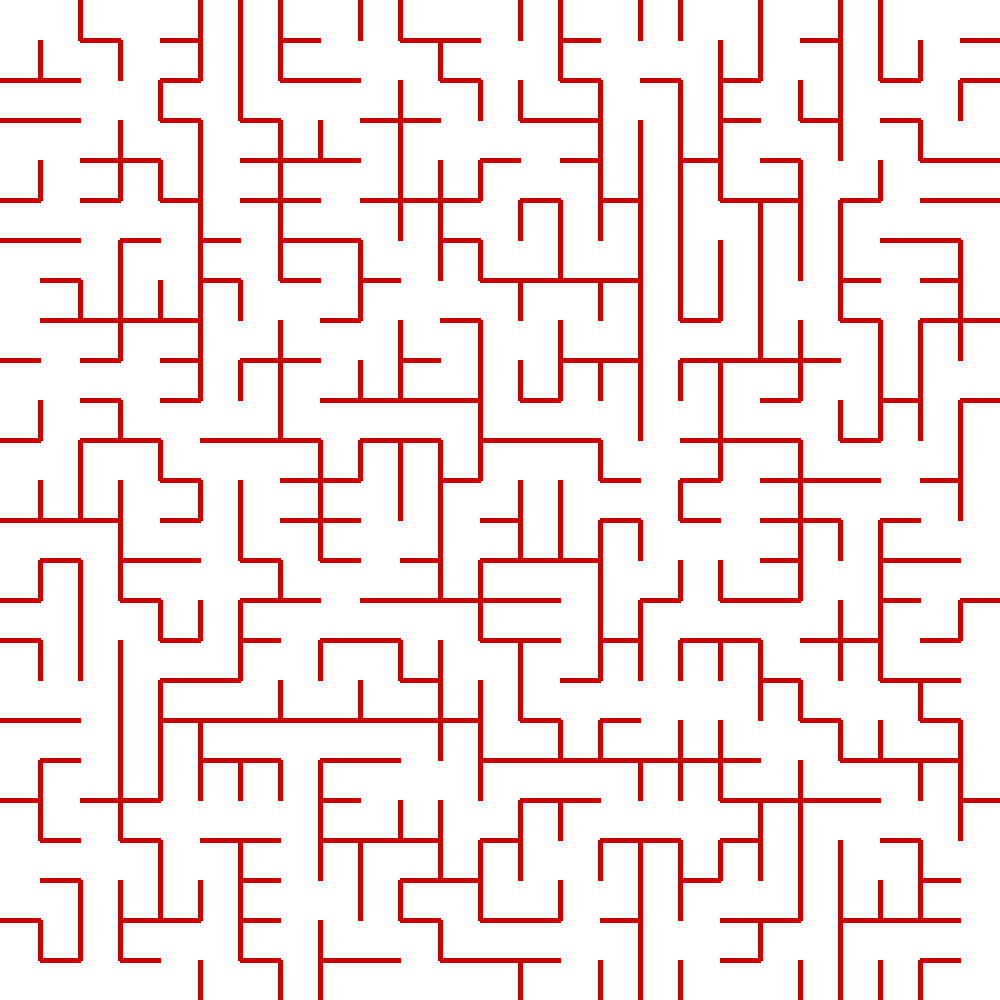
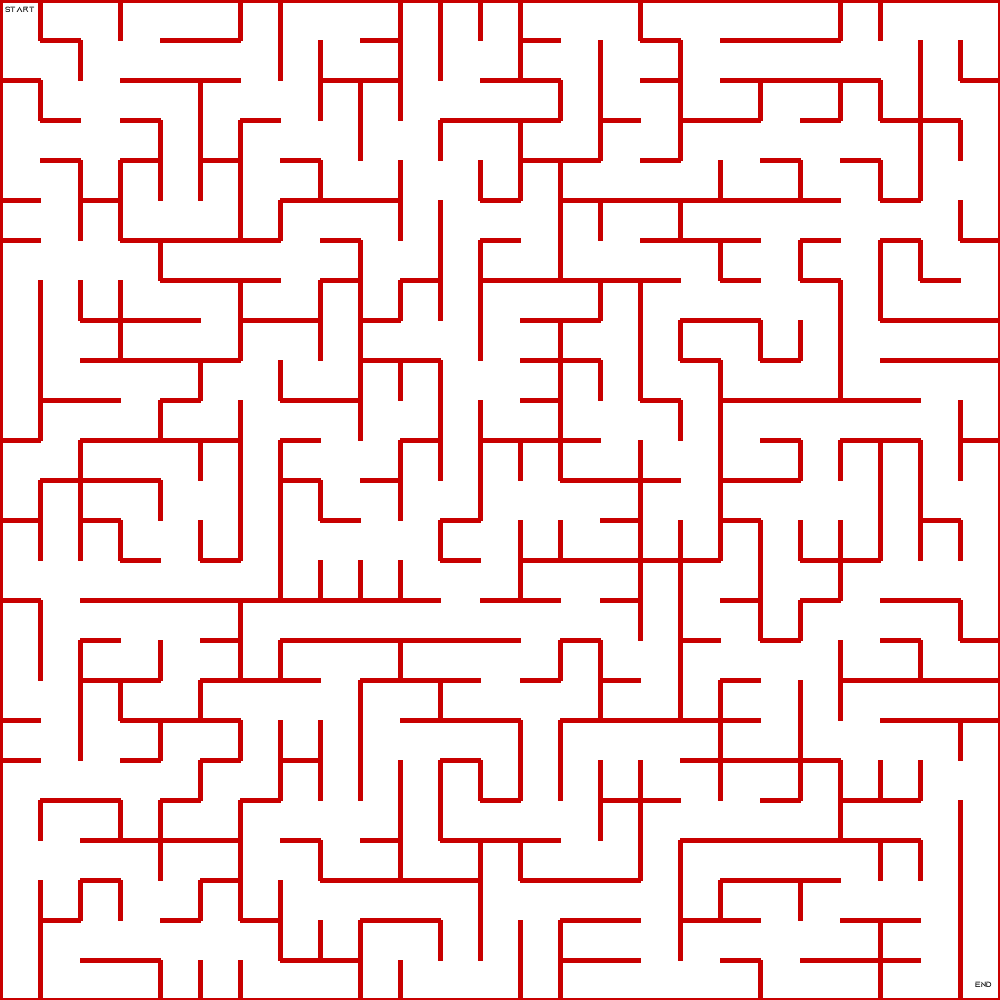
slightly faster maze making

diff --git a/maze_primitives/maze.py b/maze_primitives/maze.py
@@ -7,7 +7,7 @@ class Maze:
         self.length = int(size.split("x")[0])
         self.height = int(size.split("x")[1])
         self.start = "0,0"
-        self.exit = "24,24"
+        self.exit = f"{self.length-1},{self.height-1}"
         self.nodes = self.build_nodes(size)
         self.edges = self.build_edges(size)
         self.walls = []
@@ -61,24 +61,6 @@ class Maze:
                         to_check_nodes.append(edge)
         return False
 
-    def do_multiple_paths_exist(self, start, end):
-        checked_nodes = []
-        to_check_nodes = [start]
-        success_count = 0
-        while len(to_check_nodes) > 0 or success_count > 1:
-            curr_node = to_check_nodes.pop(0)
-            if curr_node not in checked_nodes:
-                checked_nodes.append(curr_node)
-                if curr_node == end:
-                    success_count += 1
-                else:
-                    for edge in self.nodes[curr_node]["edges"]:
-                        to_check_nodes.append(edge)
-        if success_count > 1:
-            return True
-        else:
-            return False
-
     def show_maze_data(self):
         # print(f"nodes:{self.nodes}\n\nedges:{self.edges}")
         print(self.walls)
@@ -100,8 +82,6 @@ class Maze:
         self.walls.append(edge)
 
     def make_maze_mazey(self):
-        # last_edge = "23,24:24,24"
-        # while self.does_path_exist(self.start, self.exit):
         while len(self.edges) > 0:
             edge_to_remove = self.edges[random.randint(0, len(self.edges) - 1)]
             self.add_wall(edge_to_remove)
@@ -110,6 +90,7 @@ class Maze:
             for node in self.nodes:
                 if self.does_path_exist(self.start,node) == False:
                     wall_works = False
+                    break
             if wall_works == False:
                 self.remove_wall(edge_to_remove)
 
@@ -117,14 +98,6 @@ class Maze:
 
 if __name__ == "__main__":
     maze = Maze("25x25")
-    # maze.nodes["0,1"]["edges"] = []
-    # maze.nodes["1,1"]["edges"] = []
-    # maze.nodes["2,1"]["edges"] = []
-    # if maze.does_path_exist("0,0", "2,2"):
-    #     print("A path exists!")
-    # else:
-    #     print("The path is cut")
-    # maze.show_maze_data()
     maze.make_maze_mazey()
     maze.show_maze_data()
 

diff --git a/maze_primitives/draw_maze.py b/maze_primitives/draw_maze.py
@@ -1,16 +1,22 @@
 # from maze_maker.maze_primitives.maze import Maze
-from PIL import Image, ImageDraw
+from PIL import Image, ImageDraw, ImageFont
 import sys
 
 def draw_maze(walls):
     img = Image.new("RGB", (1000, 1000), (255, 255, 255))
     img.save("image.png", "PNG")
     draw = ImageDraw.Draw(img)
-    # draw.line((0,100,200,100),fill=200,width=5)
-    # draw.point((50,50),fill=255)
-    # for x in range(25):
-    #     for y in range(25):
-    #         draw.point((x*40,y*40), fill=255)
+    draw.line((0,0,0,1000),fill=200,width=5)
+    draw.line((0,1000,1000,1000),fill=200,width=5)
+    draw.line((1000,0,1000,1000),fill=200,width=5)
+    draw.line((0,0,1000,0),fill=200,width=5)
+    # get a font
+    fnt = ImageFont.truetype("aquire-font/Aquire-BW0ox.otf", 8)
+    # get a drawing context
+    # draw multiline text
+    draw.multiline_text((5,5), "Start", font=fnt, fill=(0, 0, 0))
+    draw.multiline_text((975,980), "End", font=fnt, fill=(0, 0, 0))
+
     for wall in walls:
         [node1, node2] = wall.split(":")
         [node1_x, node1_y] = [int(node1.split(",")[0]) , int(node1.split(",")[1])]
